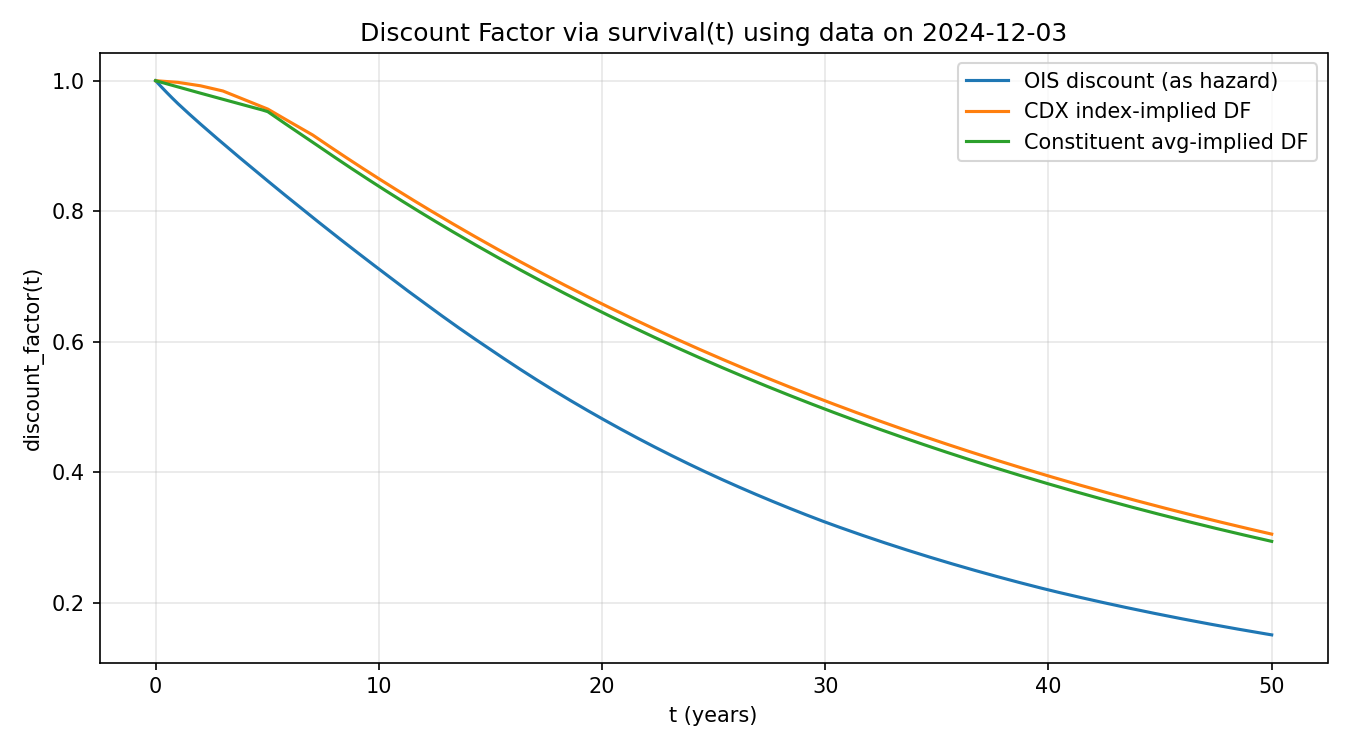
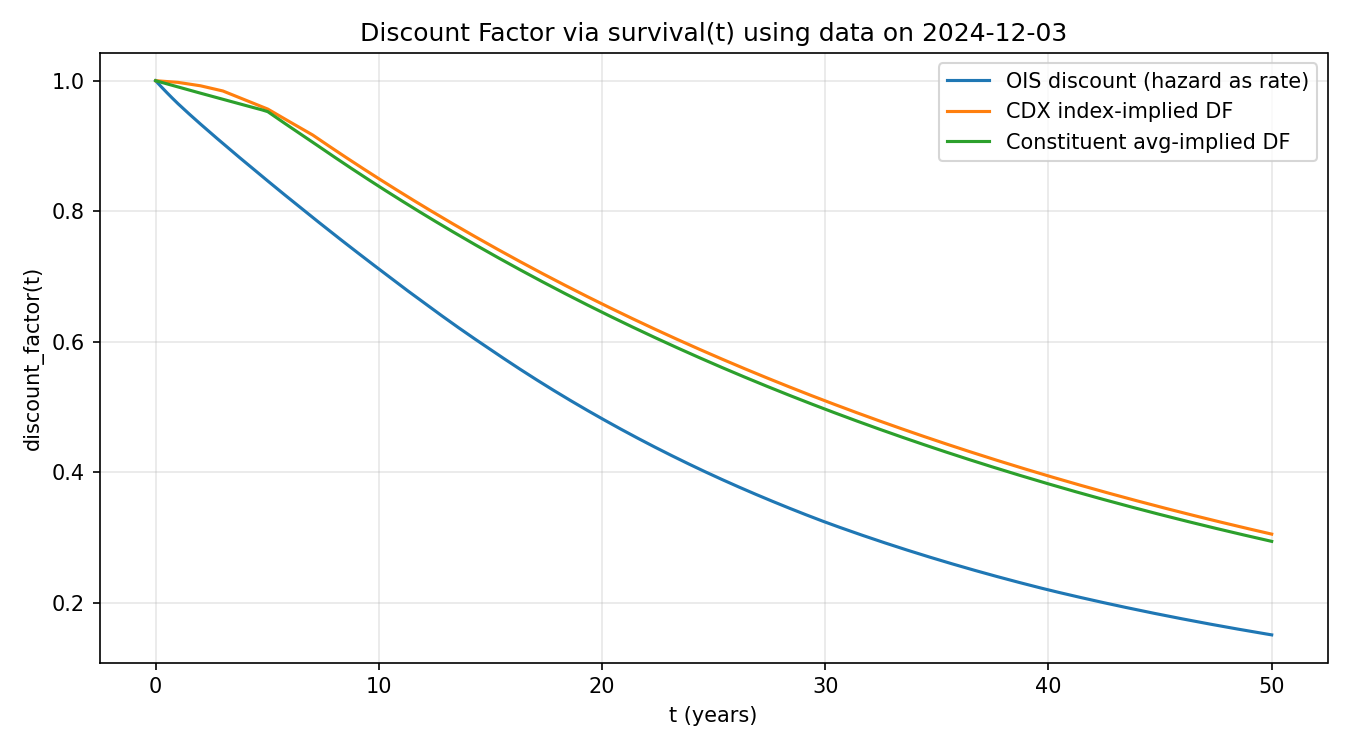
discount rate

Changed region(s): [[0.7467, 0.092, 0.9644, 0.2147], [0.6844, 0.092, 0.7156, 0.1533], [0.6844, 0.184, 0.7156, 0.2147]]

diff --git a/cdx-engine/src/io_data.py b/cdx-engine/src/io_data.py
@@ -1,6 +1,7 @@
 from __future__ import annotations
 
 from dataclasses import dataclass
+from pathlib import Path
 from typing import Callable, Dict, List, Tuple
 
 import pandas as pd
@@ -228,3 +229,156 @@ def read_ois_discount_curve(
         return float(np.exp(-r * t))
 
     return df
+
+
+def _ois_curve_from_csv(ois_csv: str, target_date: pd.Timestamp) -> "Curve":
+    from src.curves import Curve
+
+    ois_df = pd.read_csv(ois_csv, parse_dates=["Date"])
+    ois_df = _normalize_columns(ois_df)
+    ois_df = _coerce_tenor_column(ois_df)
+    ois_slice = ois_df[ois_df["Date"].dt.normalize() == target_date].copy()
+    if ois_slice.empty:
+        raise ValueError(f"No OIS rows found for date {target_date}.")
+
+    tenors = ois_slice["tenor"].to_numpy(dtype=float)
+    rates = ois_slice["OIS_Rate"].to_numpy(dtype=float) / 100.0
+    order = np.argsort(tenors)
+    return Curve(times=tenors[order], hazard=rates[order])
+
+
+def plot_discount_factors(
+    ois_csv: str,
+    cdx_csv: str,
+    constituents_csv: str,
+    recovery_rate: float,
+    payment_freq: int = 4,
+    target_date: pd.Timestamp | None = None,
+    output_path: str | None = None,
+    show_plot: bool = True,
+    print_table: bool = True,
+    print_ascii: bool = True,
+) -> pd.DataFrame:
+    """
+    Plot discount factors using OIS, index, and constituent data.
+
+    Notes:
+    - OIS curve uses OIS_Rate as continuous zero rate.
+    - Index/constituent curves are hazard curves bootstrapped from CDS spreads.
+    - Uses `_discount_factor` semantics: DF(t)=survival(t) for Curve.
+    """
+    from src.curves import Curve, build_index_curve
+    from src.curves import _discount_factor as _df_curve
+
+    ois_df = pd.read_csv(ois_csv, parse_dates=["Date"])
+    ois_df = _normalize_columns(ois_df)
+    if target_date is None:
+        target_date = ois_df["Date"].max().normalize()
+    elif isinstance(target_date, pd.Timestamp):
+        target_date = target_date.normalize()
+
+    ois_curve = _ois_curve_from_csv(ois_csv, target_date)
+    disc_curve = read_ois_discount_curve(ois_csv, target_date)
+
+    index_df = pd.read_csv(cdx_csv, parse_dates=["Date"])
+    index_df = _normalize_columns(index_df)
+    index_df = _coerce_tenor_column(index_df)
+    index_df = _standardize_index_columns(index_df)
+    index_slice = index_df[index_df["Date"].dt.normalize() == target_date].copy()
+    if index_slice.empty:
+        raise ValueError(f"No CDX rows found for date {target_date}.")
+    tenors = index_slice["tenor"].to_numpy(dtype=float)
+    spreads_bp = index_slice["index_spread"].to_numpy(dtype=float)
+    order = np.argsort(tenors)
+    tenors = tenors[order]
+    spreads = spreads_bp[order] / 10000.0
+    index_curve = build_index_curve(
+        tenors,
+        spreads,
+        recovery_rate,
+        payment_freq=payment_freq,
+        disc_curve=disc_curve,
+    )
+
+    cons_df = pd.read_csv(constituents_csv, parse_dates=["Date"])
+    cons_df = _normalize_columns(cons_df)
+    cons_slice = cons_df[cons_df["Date"].dt.normalize() == target_date].copy()
+    if cons_slice.empty:
+        raise ValueError(f"No constituents rows found for date {target_date}.")
+    tenor_cols = {5.0: "Spread_5Y", 7.0: "Spread_7Y", 10.0: "Spread_10Y"}
+    cons_tenors = []
+    cons_spreads = []
+    for tenor, col in tenor_cols.items():
+        if col not in cons_slice.columns:
+            raise ValueError(f"Missing {col} in constituents data.")
+        mean_bp = cons_slice[col].astype(float).mean()
+        cons_tenors.append(tenor)
+        cons_spreads.append(mean_bp / 10000.0)
+    cons_curve = build_index_curve(
+        cons_tenors,
+        cons_spreads,
+        recovery_rate,
+        payment_freq=payment_freq,
+        disc_curve=disc_curve,
+    )
+
+    t_max = max(
+        float(np.max(ois_curve.times)),
+        float(np.max(index_curve.times)),
+        float(np.max(cons_curve.times)),
+    )
+    ts = np.linspace(0.0, max(10.0, t_max), 200)
+
+    ois_vals = np.array([ois_curve.survival(t) for t in ts])
+    index_vals = np.array([index_curve.survival(t) for t in ts])
+    cons_vals = np.array([cons_curve.survival(t) for t in ts])
+
+    if output_path is None:
+        output_path = "plots/discount_factors.png"
+
+    import matplotlib.pyplot as plt
+
+    fig, ax = plt.subplots(figsize=(9, 5))
+    ax.plot(ts, ois_vals, label="OIS discount (hazard as rate)")
+    ax.plot(ts, index_vals, label="CDX index-implied DF")
+    ax.plot(ts, cons_vals, label="Constituent avg-implied DF")
+    ax.set_title(f"Discount Factor via survival(t) using data on {target_date.date()}")
+    ax.set_xlabel("t (years)")
+    ax.set_ylabel("discount_factor(t)")
+    ax.grid(True, alpha=0.3)
+    ax.legend()
+    fig.tight_layout()
+    Path(output_path).parent.mkdir(parents=True, exist_ok=True)
+    fig.savefig(output_path, dpi=150)
+    if show_plot:
+        plt.show()
+    plt.close(fig)
+
+    if print_ascii:
+        width = 60
+        levels = " .:-=+*#%@"
+        idx = np.linspace(0, len(ts) - 1, 30, dtype=int)
+        print(f"ASCII plot (t in years) for {target_date.date()}:")
+        for label, series in [
+            ("OIS", ois_vals),
+            ("Index", index_vals),
+            ("Const", cons_vals),
+        ]:
+            values = series[idx]
+            scaled = (values - values.min()) / max(1e-12, values.max() - values.min())
+            chars = "".join(levels[int(x * (len(levels) - 1))] for x in scaled)
+            print(f"{label:>6}: {chars}")
+
+    table_ts = np.array([0.5, 1, 2, 3, 5, 7, 10], dtype=float)
+    table = pd.DataFrame(
+        {
+            "t_years": table_ts,
+            "ois_df": [_df_curve(ois_curve, float(t)) for t in table_ts],
+            "index_df": [_df_curve(index_curve, float(t)) for t in table_ts],
+            "constituent_df": [_df_curve(cons_curve, float(t)) for t in table_ts],
+        }
+    )
+    if print_table:
+        print(table.to_string(index=False))
+
+    return table
